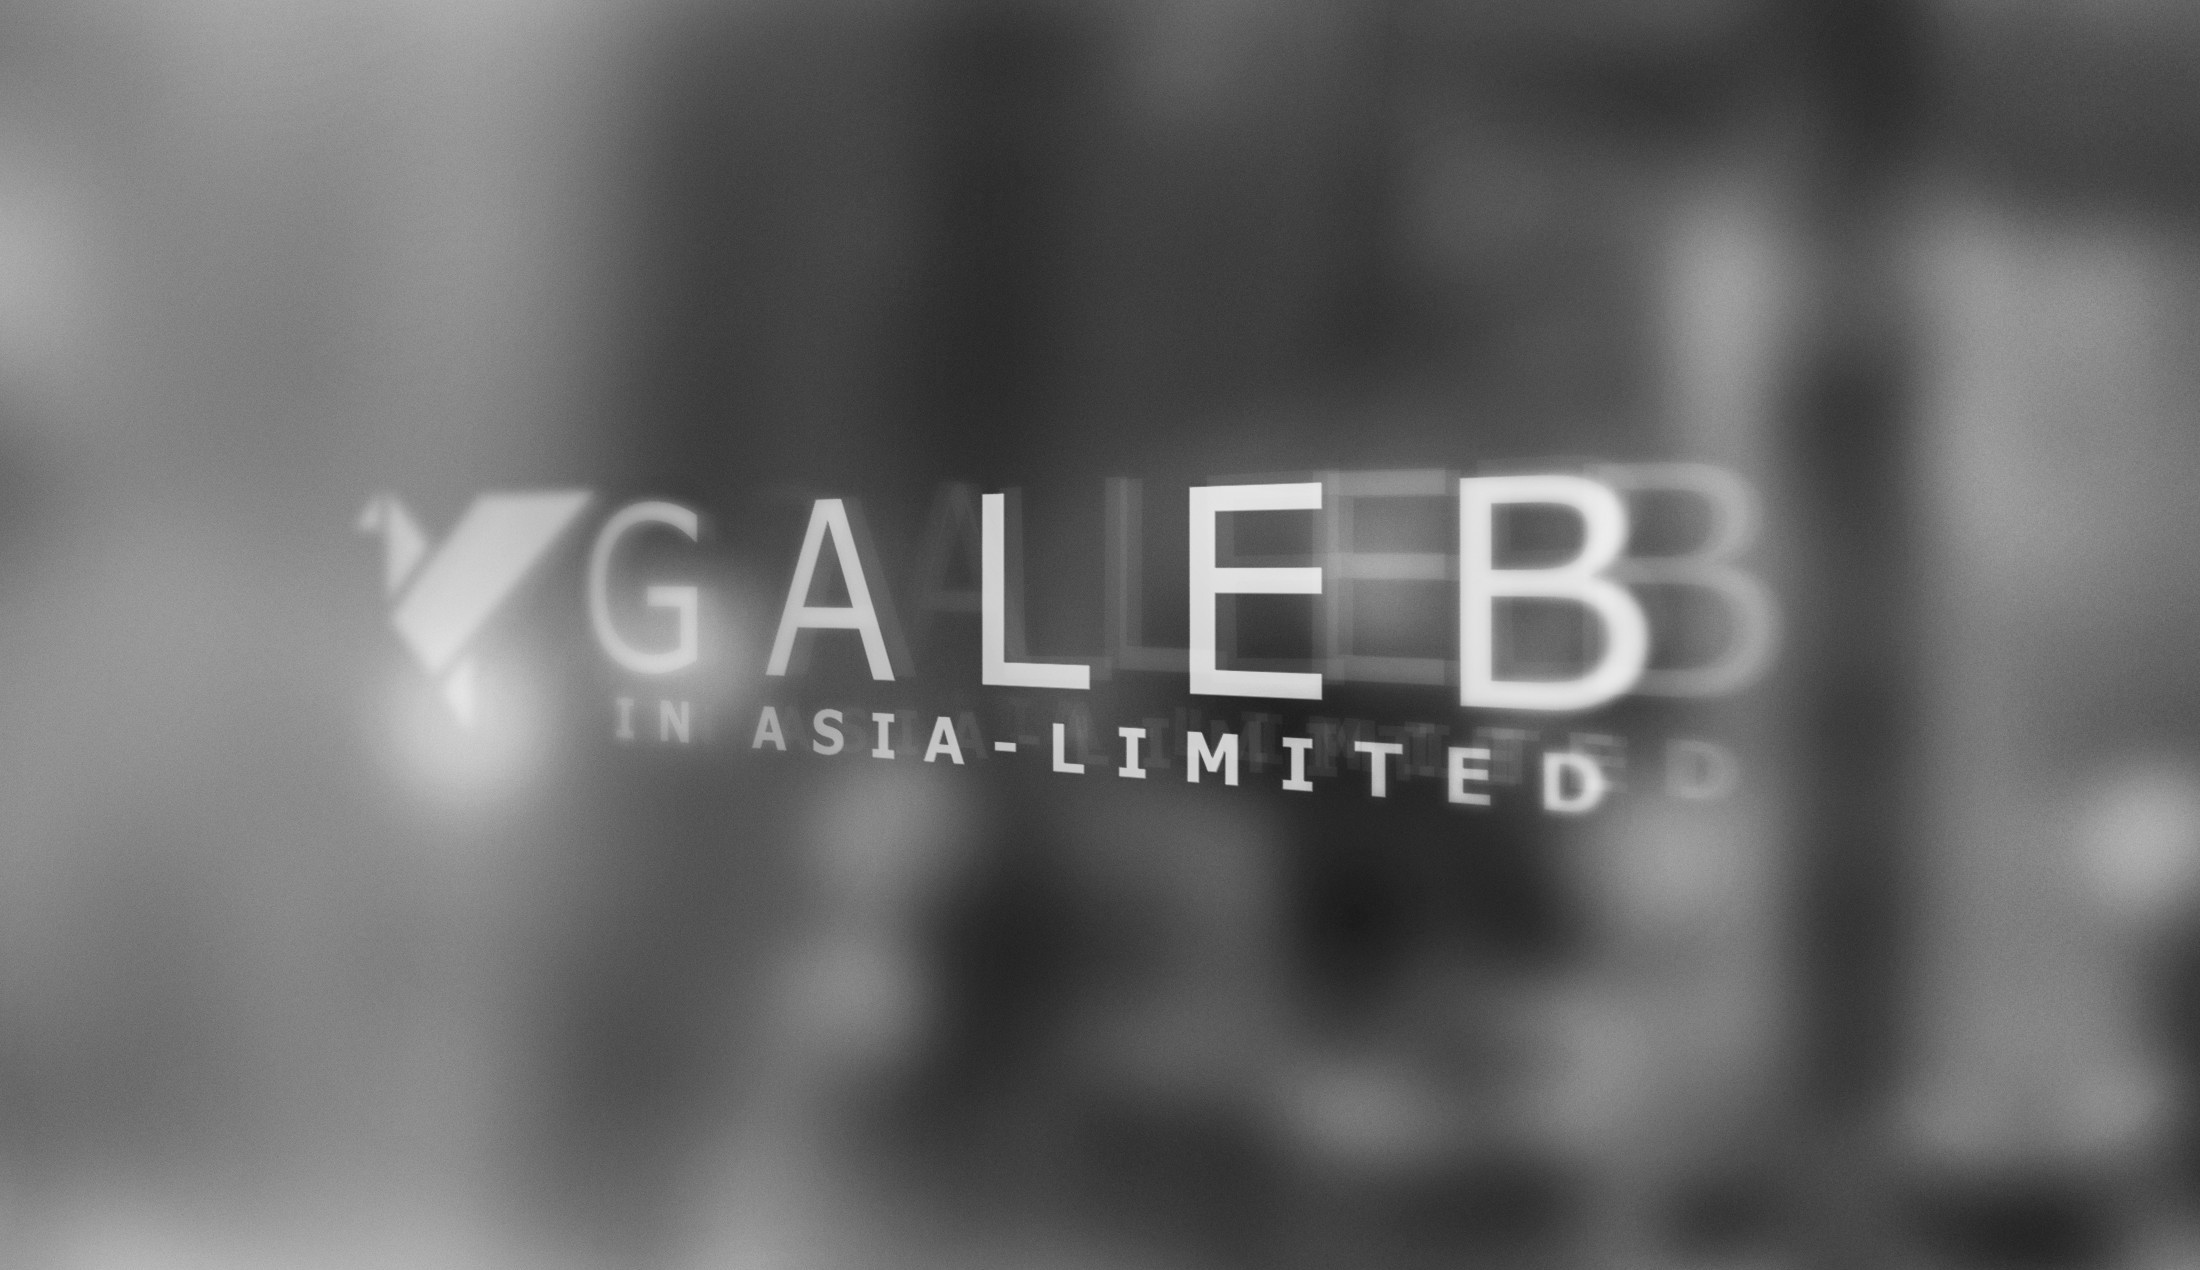
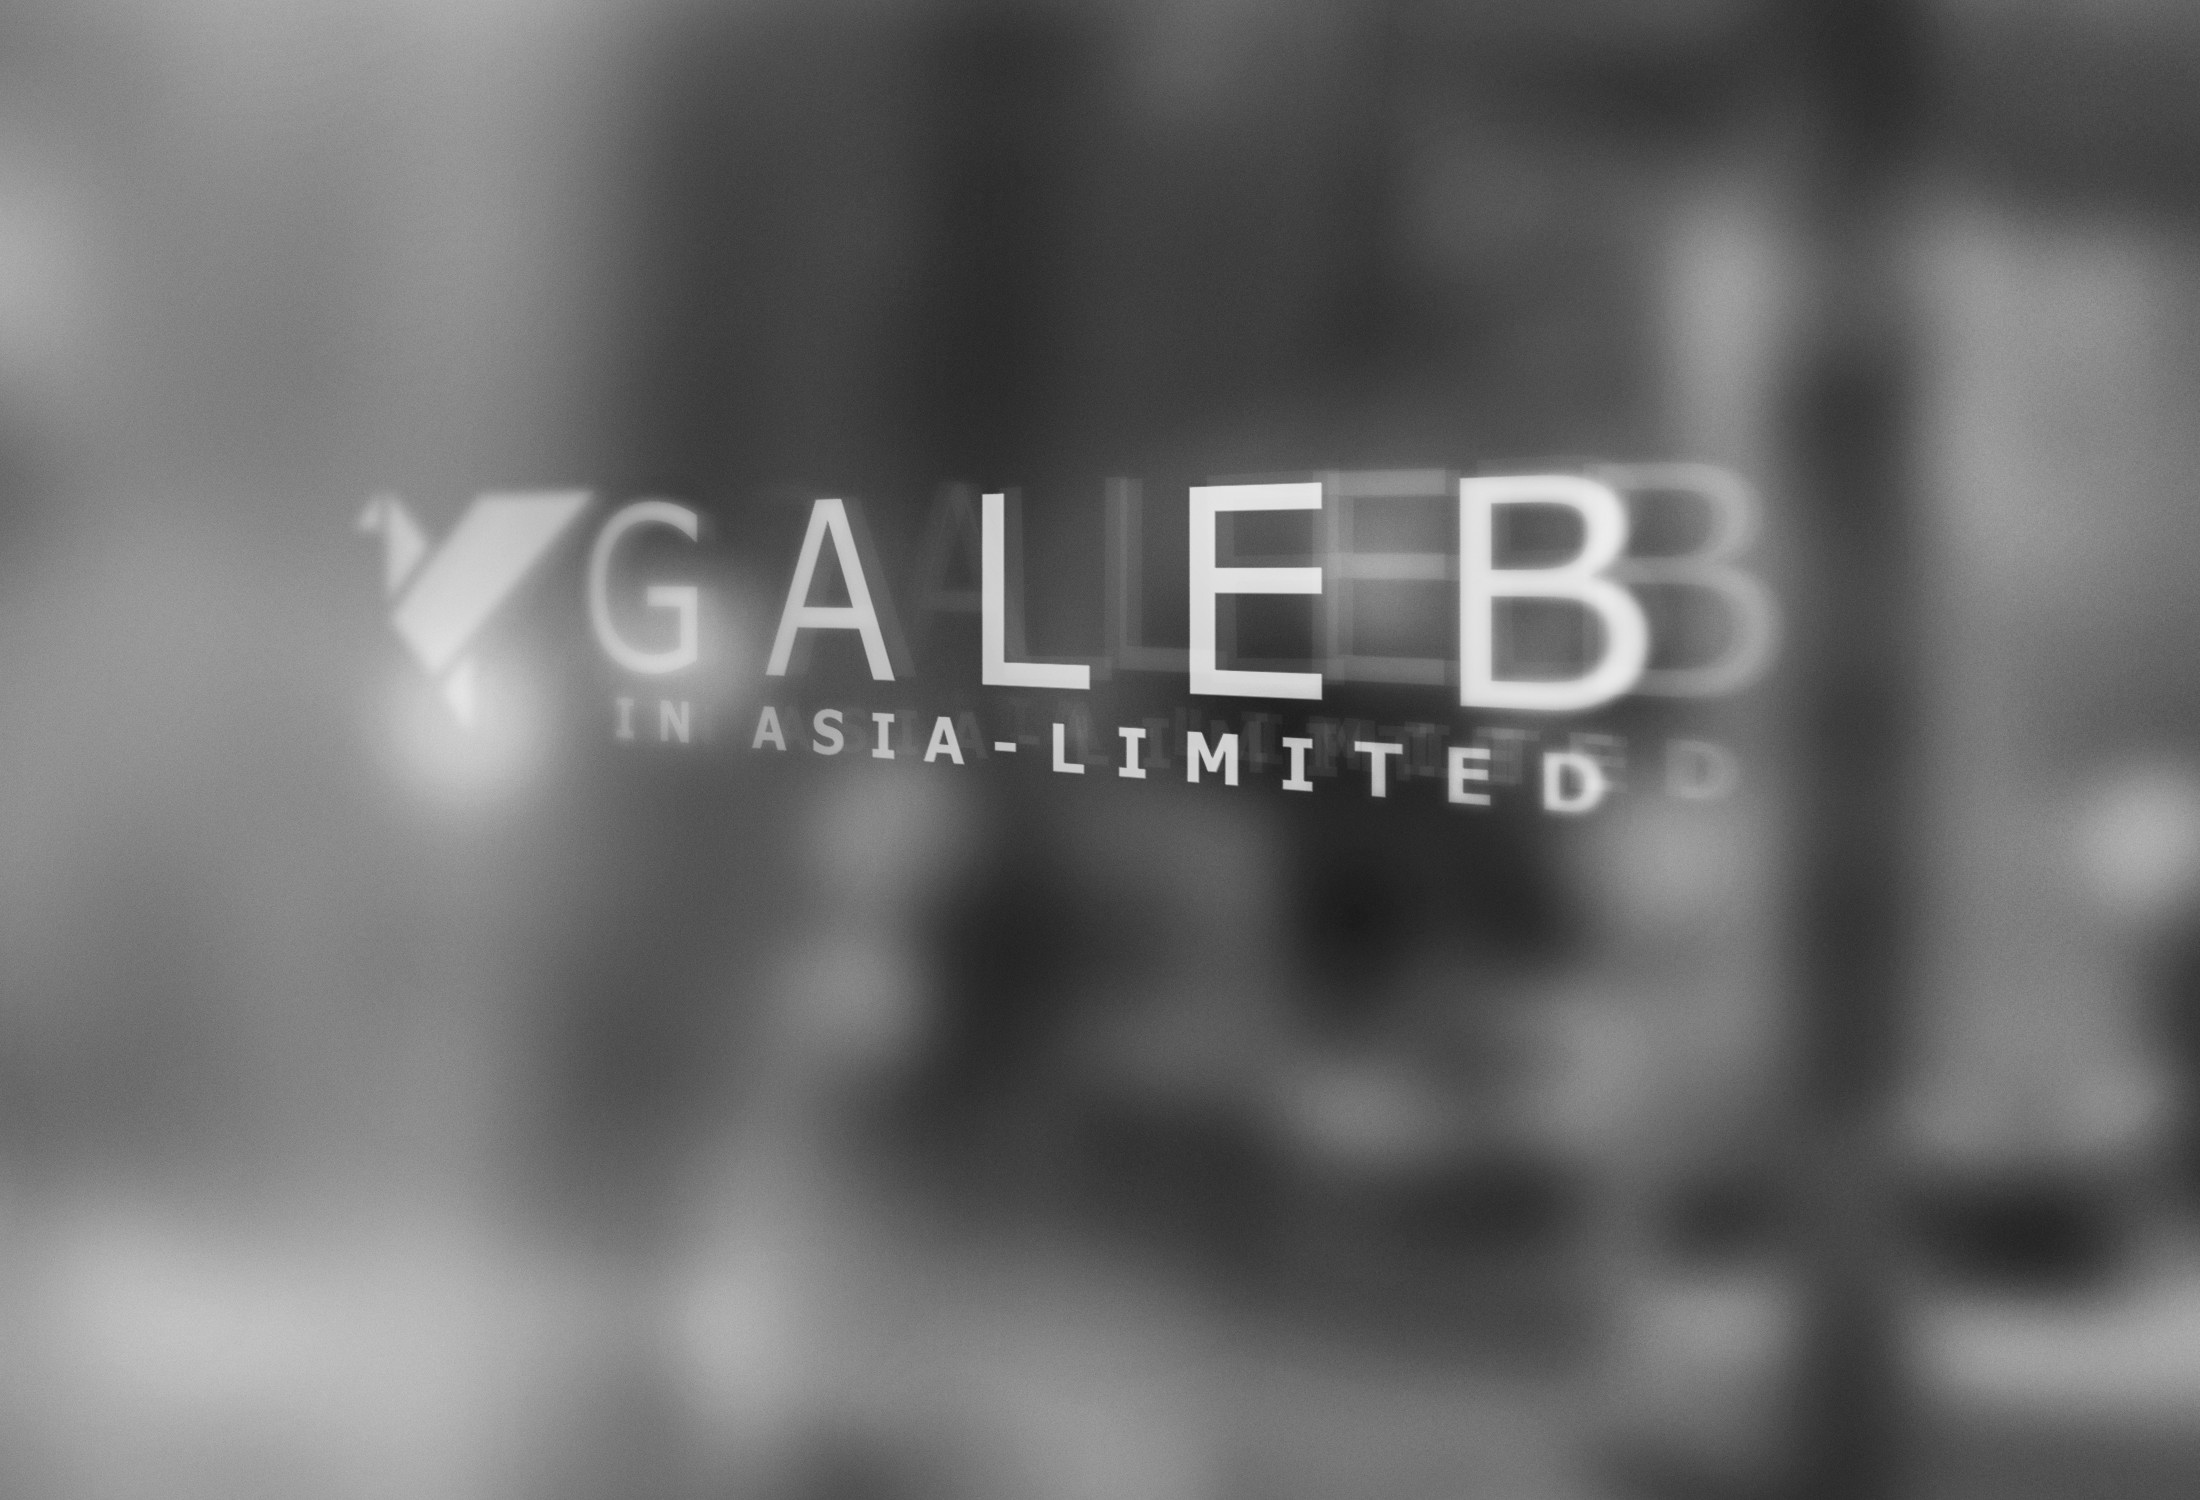
added prallax

diff --git a/scripts/jquery.scrollTo-1.4.2-min.js b/scripts/jquery.scrollTo-1.4.2-min.js
@@ -1,0 +1,11 @@
+/**
+ * jQuery.ScrollTo - Easy element scrolling using jQuery.
+ * Copyright (c) 2007-2009 Ariel Flesler - aflesler(at)gmail(dot)com | http://flesler.blogspot.com
+ * Dual licensed under MIT and GPL.
+ * Date: 5/25/2009
+ * @author Ariel Flesler
+ * @version 1.4.2
+ *
+ * http://flesler.blogspot.com/2007/10/jqueryscrollto.html
+ */
+;(function(d){var k=d.scrollTo=function(a,i,e){d(window).scrollTo(a,i,e)};k.defaults={axis:'xy',duration:parseFloat(d.fn.jquery)>=1.3?0:1};k.window=function(a){return d(window)._scrollable()};d.fn._scrollable=function(){return this.map(function(){var a=this,i=!a.nodeName||d.inArray(a.nodeName.toLowerCase(),['iframe','#document','html','body'])!=-1;if(!i)return a;var e=(a.contentWindow||a).document||a.ownerDocument||a;return d.browser.safari||e.compatMode=='BackCompat'?e.body:e.documentElement})};d.fn.scrollTo=function(n,j,b){if(typeof j=='object'){b=j;j=0}if(typeof b=='function')b={onAfter:b};if(n=='max')n=9e9;b=d.extend({},k.defaults,b);j=j||b.speed||b.duration;b.queue=b.queue&&b.axis.length>1;if(b.queue)j/=2;b.offset=p(b.offset);b.over=p(b.over);return this._scrollable().each(function(){var q=this,r=d(q),f=n,s,g={},u=r.is('html,body');switch(typeof f){case'number':case'string':if(/^([+-]=)?\d+(\.\d+)?(px|%)?$/.test(f)){f=p(f);break}f=d(f,this);case'object':if(f.is||f.style)s=(f=d(f)).offset()}d.each(b.axis.split(''),function(a,i){var e=i=='x'?'Left':'Top',h=e.toLowerCase(),c='scroll'+e,l=q[c],m=k.max(q,i);if(s){g[c]=s[h]+(u?0:l-r.offset()[h]);if(b.margin){g[c]-=parseInt(f.css('margin'+e))||0;g[c]-=parseInt(f.css('border'+e+'Width'))||0}g[c]+=b.offset[h]||0;if(b.over[h])g[c]+=f[i=='x'?'width':'height']()*b.over[h]}else{var o=f[h];g[c]=o.slice&&o.slice(-1)=='%'?parseFloat(o)/100*m:o}if(/^\d+$/.test(g[c]))g[c]=g[c]<=0?0:Math.min(g[c],m);if(!a&&b.queue){if(l!=g[c])t(b.onAfterFirst);delete g[c]}});t(b.onAfter);function t(a){r.animate(g,j,b.easing,a&&function(){a.call(this,n,b)})}}).end()};k.max=function(a,i){var e=i=='x'?'Width':'Height',h='scroll'+e;if(!d(a).is('html,body'))return a[h]-d(a)[e.toLowerCase()]();var c='client'+e,l=a.ownerDocument.documentElement,m=a.ownerDocument.body;return Math.max(l[h],m[h])-Math.min(l[c],m[c])};function p(a){return typeof a=='object'?a:{top:a,left:a}}})(jQuery);

diff --git a/scripts/jquery.parallax-1.1.3.js b/scripts/jquery.parallax-1.1.3.js
@@ -1,0 +1,69 @@
+/*
+Plugin: jQuery Parallax
+Version 1.1.3
+Author: Ian Lunn
+Twitter: @IanLunn
+Author URL: http://www.ianlunn.co.uk/
+Plugin URL: http://www.ianlunn.co.uk/plugins/jquery-parallax/
+
+Dual licensed under the MIT and GPL licenses:
+http://www.opensource.org/licenses/mit-license.php
+http://www.gnu.org/licenses/gpl.html
+*/
+
+(function( $ ){
+	var $window = $(window);
+	var windowHeight = $window.height();
+
+	$window.resize(function () {
+		windowHeight = $window.height();
+	});
+
+	$.fn.parallax = function(xpos, speedFactor, outerHeight) {
+		var $this = $(this);
+		var getHeight;
+		var firstTop;
+		var paddingTop = 0;
+		
+		//get the starting position of each element to have parallax applied to it		
+		$this.each(function(){
+		    firstTop = $this.offset().top;
+		});
+
+		if (outerHeight) {
+			getHeight = function(jqo) {
+				return jqo.outerHeight(true);
+			};
+		} else {
+			getHeight = function(jqo) {
+				return jqo.height();
+			};
+		}
+			
+		// setup defaults if arguments aren't specified
+		if (arguments.length < 1 || xpos === null) xpos = "50%";
+		if (arguments.length < 2 || speedFactor === null) speedFactor = 0.1;
+		if (arguments.length < 3 || outerHeight === null) outerHeight = true;
+		
+		// function to be called whenever the window is scrolled or resized
+		function update(){
+			var pos = $window.scrollTop();				
+
+			$this.each(function(){
+				var $element = $(this);
+				var top = $element.offset().top;
+				var height = getHeight($element);
+
+				// Check if totally above or totally below viewport
+				if (top + height < pos || top > pos + windowHeight) {
+					return;
+				}
+
+				$this.css('backgroundPosition', xpos + " " + Math.round((firstTop - pos) * speedFactor) + "px");
+			});
+		}		
+
+		$window.bind('scroll', update).resize(update);
+		update();
+	};
+})(jQuery);

diff --git a/index.html b/index.html
@@ -11,6 +11,15 @@
 	<link href="fonts.css" rel="stylesheet" type="text/css" media="all" />
 	<link rel="icon" type="image/png" href="images/favicon-96x96.png">
   <link rel="icon" href="favicon.ico" type="image/x-icon" />
+<script type="text/javascript" src="https://ajax.googleapis.com/ajax/libs/jquery/1.6.4/jquery.min.js"></script>
+<script type="text/javascript" src="scripts/jquery.parallax-1.1.3.js"></script>
+<script type="text/javascript" src="scripts/jquery.localscroll-1.2.7-min.js"></script>
+<script type="text/javascript" src="scripts/jquery.scrollTo-1.4.2-min.js"></script>
+<script type="text/javascript">
+$(document).ready(function(){
+	$('body').parallax("50%", 0.2);
+})
+</script>
 </head>
 <body>
 <div id="header-wrapper">
@@ -27,7 +36,7 @@
 				<li class="active"><a href="/" accesskey="1" title="Homepage">Homepage</a></li>
 				<li><a href="#ourmission" accesskey="2" title="Our Mission">Our Mission</a></li>
 				<li><a href="#aboutus" accesskey="3" title="About Us">About Us</a></li>
-				<li><a href="#contactus" accesskey="4" title="Contact Us">Contact Us</a></li>
+				<li><a href="#contact" accesskey="4" title="Contact Us">Contact Us</a></li>
 			</ul>
 		</div>
 	</div>
@@ -50,8 +59,13 @@
 		<div class="boxC"><img src="images/pic03.jpg" width="300" height="450" alt="" /></div>
 	</div>
 </div>
-<div id="copyright" class="container">
-	<p>&copy; Untitled. All rights reserved. | Photos by <a href="http://fotogrph.com/">Fotogrph</a> | Design by <a href="http://templated.co" rel="nofollow">TEMPLATED</a>.</p>
+<div id="contact" class="container">
+	<p>
+		GALEB IN ASIA - LIMITED<br/>
+		Rm 607 Yen Sheng Centre | 64 Hoi Yuen Rd. | Kwun Tong | Hong Kong<br/>
+		Business Registration  No. 66420870<br/>
+		office@galeb-in-asia.com | +85258014149
+	</p>
 </div>
 </body>
 </html>

diff --git a/scripts/jquery.localscroll-1.2.7-min.js b/scripts/jquery.localscroll-1.2.7-min.js
@@ -1,0 +1,9 @@
+/**
+ * jQuery.LocalScroll - Animated scrolling navigation, using anchors.
+ * Copyright (c) 2007-2009 Ariel Flesler - aflesler(at)gmail(dot)com | http://flesler.blogspot.com
+ * Dual licensed under MIT and GPL.
+ * Date: 3/11/2009
+ * @author Ariel Flesler
+ * @version 1.2.7
+ **/
+;(function($){var l=location.href.replace(/#.*/,'');var g=$.localScroll=function(a){$('body').localScroll(a)};g.defaults={duration:1e3,axis:'y',event:'click',stop:true,target:window,reset:true};g.hash=function(a){if(location.hash){a=$.extend({},g.defaults,a);a.hash=false;if(a.reset){var e=a.duration;delete a.duration;$(a.target).scrollTo(0,a);a.duration=e}i(0,location,a)}};$.fn.localScroll=function(b){b=$.extend({},g.defaults,b);return b.lazy?this.bind(b.event,function(a){var e=$([a.target,a.target.parentNode]).filter(d)[0];if(e)i(a,e,b)}):this.find('a,area').filter(d).bind(b.event,function(a){i(a,this,b)}).end().end();function d(){return!!this.href&&!!this.hash&&this.href.replace(this.hash,'')==l&&(!b.filter||$(this).is(b.filter))}};function i(a,e,b){var d=e.hash.slice(1),f=document.getElementById(d)||document.getElementsByName(d)[0];if(!f)return;if(a)a.preventDefault();var h=$(b.target);if(b.lock&&h.is(':animated')||b.onBefore&&b.onBefore.call(b,a,f,h)===false)return;if(b.stop)h.stop(true);if(b.hash){var j=f.id==d?'id':'name',k=$('<a> </a>').attr(j,d).css({position:'absolute',top:$(window).scrollTop(),left:$(window).scrollLeft()});f[j]='';$('body').prepend(k);location=e.hash;k.remove();f[j]=d}h.scrollTo(f,b).trigger('notify.serialScroll',[f])}})(jQuery);

diff --git a/default.css b/default.css
@@ -9,7 +9,8 @@ body
 {
 	margin: 0px;
 	padding: 0px;
-	background: #0099CC;
+	background: url(images/galeb-bw-glass-fit.jpg) repeat center;
+	border-top: 10px solid #FFFFFF;
 	font-family: 'Source Sans Pro', sans-serif;
 	font-size: 12pt;
 	font-weight: 300;
@@ -263,6 +264,7 @@ ul.contact li a.icon-rss:before
 #wrapper
 {
 	background: #FFF;
+	padding: 5em 0em;
 }
 
 /*********************************************************************************/
@@ -271,10 +273,7 @@ ul.contact li a.icon-rss:before
 
 #header-wrapper
 {
-	background: url(images/galeb-bw-glass.jpg) no-repeat center;
-	background-size: cover;
-	border-top: 10px solid #FFFFFF;
-	background-attachment: fixed;
+
 }
 
 #header
@@ -362,7 +361,7 @@ ul.contact li a.icon-rss:before
 
 	#banner
 {
-	padding: 10em 0em;
+	padding: 15em 0em;
 }
 
 #banner span
@@ -416,25 +415,24 @@ ul.contact li a.icon-rss:before
 }
 
 /*********************************************************************************/
-/* Copyright                                                                     */
+/* contact                                                                     */
 /*********************************************************************************/
 
-	#copyright
+	#contact
 {
 	overflow: hidden;
 	padding: 5em 0em;
 }
 
-#copyright p
+#contact p
 {
 	letter-spacing: 0.20em;
 	text-align: center;
-	text-transform: uppercase;
 	font-size: 0.80em;
 	color: rgba(255,255,255,0.6);
 }
 
-#copyright a
+#contact a
 {
 	text-decoration: none;
 	color: rgba(255,255,255,0.9);
